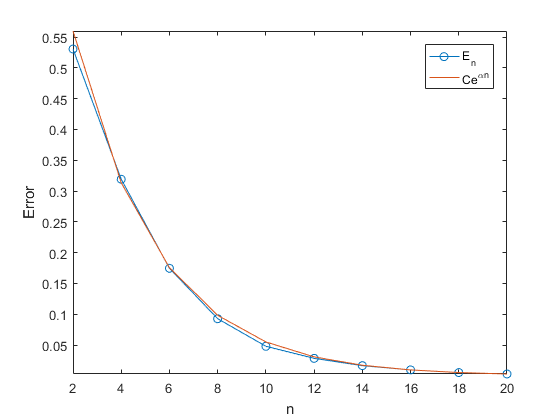
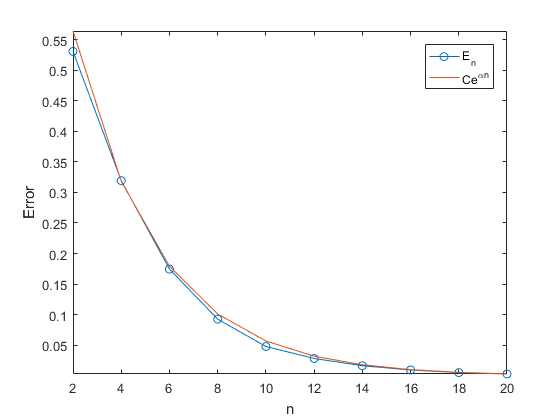
Better value for alpha

diff --git a/assignment2/guessAlpha.m b/assignment2/guessAlpha.m
@@ -8,8 +8,10 @@ for j = 1:length(N)
 end
 
 C = 1;
-alpha = -0.29;
+alpha = -range(log(E)) / range(N);
+%alpha = -0.29;
 D = C*exp(alpha*N);
+disp(alpha);
 
 %% Plot error
 plot(N, E, '-o'); hold on;

diff --git a/assignment2/prob2a.m b/assignment2/prob2a.m
@@ -7,8 +7,8 @@ for j = 1:length(N)
     E(j) = interperr_eq(n);
 end
 
-C = 1.0;
-alpha = -0.29;
+C = 1;
+alpha = -range(log(E)) / range(N);
 D = C*exp(alpha*N);
 
 %% Plot error
